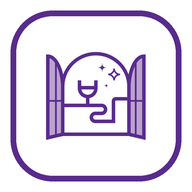
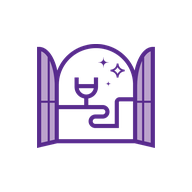
앱 아이콘 정리: 문법은 흰 바탕 테두리, 선생님은 테두리 없는 흰 바탕
- 학생 문법 아이콘을 흰 바탕 + 보라 둥근 테두리 + 보라 로고로 바꿨습니다
- 선생님 아이콘은 테두리 없이 흰 바탕에 보라 로고만 넣었습니다
- 안드로이드가 아이콘을 동그랗게 잘라 테두리가 잘리지 않도록
  두 앱의 maskable 줄을 뺐습니다
- 바탕화면에 이미 깐 앱도 새 아이콘을 받도록 ?v= 표시를 바꿨습니다

Claude-Session: https://claude.ai/code/session_016hCAU12hDEfP1x27qeisDu

Changed region(s): [[0.1875, 0.2188, 0.8125, 0.7812], [0.0312, 0.0312, 0.9688, 0.9688]]

diff --git a/teacher.html b/teacher.html
@@ -6,15 +6,15 @@
   <meta name="viewport" content="width=device-width, initial-scale=1.0">
   <title>선생님용 - 어휘 테스트</title>
   <!-- 선생님용은 아이콘과 설치 설정을 따로 씁니다 (학생용과 헷갈리지 않게) -->
-  <link rel="manifest" href="teacher-manifest.json?v=20260902p">
-  <link rel="icon" href="teacher-favicon.png?v=20260902p">
-  <link rel="apple-touch-icon" href="teacher-apple-touch-icon.png?v=20260902p">
+  <link rel="manifest" href="teacher-manifest.json?v=20260903c">
+  <link rel="icon" href="teacher-favicon.png?v=20260903c">
+  <link rel="apple-touch-icon" href="teacher-apple-touch-icon.png?v=20260903c">
   <meta name="theme-color" content="#582b8d">
   <meta name="apple-mobile-web-app-capable" content="yes">
   <meta name="mobile-web-app-capable" content="yes">
   <meta name="apple-mobile-web-app-status-bar-style" content="default">
   <meta name="apple-mobile-web-app-title" content="보라국어 선생님">
-  <link rel="stylesheet" href="style.css?v=20260902p">
+  <link rel="stylesheet" href="style.css?v=20260903c">
 </head>
 <body>
 
@@ -24,8 +24,8 @@
     <section id="screen-login" class="screen">
       <div class="brand-box">
         <picture>
-          <source srcset="logo/mark-white.png?v=20260902p" media="(prefers-color-scheme: dark)">
-          <img class="brand-mark" src="logo/mark.png?v=20260902p" alt="" width="450" height="397">
+          <source srcset="logo/mark-white.png?v=20260903c" media="(prefers-color-scheme: dark)">
+          <img class="brand-mark" src="logo/mark.png?v=20260903c" alt="" width="450" height="397">
         </picture>
         <p class="brand-name">보라! 어휘T</p>
       </div>
@@ -51,8 +51,8 @@
 
       <div class="brand-box">
         <picture>
-          <source srcset="logo/mark-white.png?v=20260902p" media="(prefers-color-scheme: dark)">
-          <img class="brand-mark" src="logo/mark.png?v=20260902p" alt="" width="450" height="397">
+          <source srcset="logo/mark-white.png?v=20260903c" media="(prefers-color-scheme: dark)">
+          <img class="brand-mark" src="logo/mark.png?v=20260903c" alt="" width="450" height="397">
         </picture>
         <p class="brand-name">보라! 어휘T</p>
       </div>
@@ -216,9 +216,9 @@
 
   </main>
 
-  <script src="questions.js?v=20260902p"></script>
-  <script src="questions-grammar.js?v=20260902p"></script>
-  <script src="storage.js?v=20260902p"></script>
-  <script src="teacher.js?v=20260902p"></script>
+  <script src="questions.js?v=20260903c"></script>
+  <script src="questions-grammar.js?v=20260903c"></script>
+  <script src="storage.js?v=20260903c"></script>
+  <script src="teacher.js?v=20260903c"></script>
 </body>
 </html>
